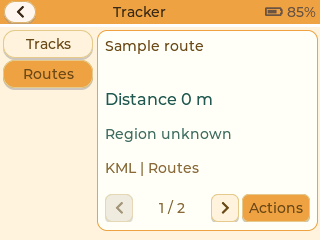
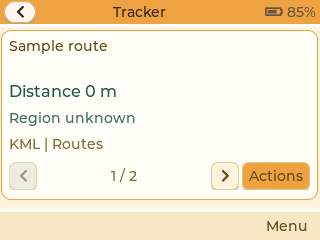
Verify topmost menu touch and preserve preview keyboard focus

diff --git a/modules/ui_shared/src/ui/components/bottom_bar.cpp b/modules/ui_shared/src/ui/components/bottom_bar.cpp
@@ -42,6 +42,12 @@ lv_obj_t* create(lv_obj_t* parent)
 void style_item(lv_obj_t* item)
 {
     plain(item);
+    for (const auto state : {LV_STATE_FOCUSED, LV_STATE_CHECKED, LV_STATE_PRESSED})
+    {
+        lv_obj_set_style_radius(item, 0, state);
+        lv_obj_set_style_border_width(item, 0, state);
+        lv_obj_set_style_shadow_width(item, 0, state);
+    }
     lv_obj_clear_flag(item, LV_OBJ_FLAG_SCROLLABLE);
     lv_obj_set_style_bg_opa(item, LV_OPA_TRANSP, LV_PART_MAIN);
     lv_obj_set_style_bg_color(item, lv_color_hex(kSelection), LV_STATE_FOCUSED);
@@ -151,6 +157,12 @@ void Menu::present()
     lv_obj_set_style_pad_row(content_, 2, LV_PART_MAIN);
     lv_obj_set_style_margin_all(content_, 0, LV_PART_MAIN);
     lv_obj_set_height(content_, LV_SIZE_CONTENT);
+    // Font and padding must be final before measuring translated item labels.
+    for (uint32_t index = 0; index < lv_obj_get_child_count(content_); ++index)
+    {
+        auto* item = lv_obj_get_child(content_, index);
+        if (lv_obj_has_flag(item, LV_OBJ_FLAG_CLICKABLE)) style_item(item);
+    }
     lv_obj_update_layout(root_);
     fit_menu(content_, std::max<lv_coord_t>(72, lv_obj_get_width(root_) - 8));
     lv_obj_set_style_max_width(content_, lv_obj_get_width(root_) - 8, LV_PART_MAIN);
@@ -168,11 +180,6 @@ void Menu::present()
     const auto x = valid(anchor_) ? anchor_area.x2 - root_area.x1 - width + 1 : lv_obj_get_width(root_) - width - 4;
     lv_obj_set_pos(content_, std::max<lv_coord_t>(4, std::min<lv_coord_t>(x, lv_obj_get_width(root_) - width - 4)),
                    std::max<lv_coord_t>(4, bottom - lv_obj_get_height(content_)));
-    for (uint32_t index = 0; index < lv_obj_get_child_count(content_); ++index)
-    {
-        auto* item = lv_obj_get_child(content_, index);
-        if (lv_obj_has_flag(item, LV_OBJ_FLAG_CLICKABLE)) style_item(item);
-    }
     prepare_keys(content_);
 }
 

diff --git a/tools/web_simulator/native_runtime.cpp b/tools/web_simulator/native_runtime.cpp
@@ -18,6 +18,7 @@ lv_group_t* menu_g = nullptr;
 lv_obj_t* main_screen = nullptr;
 static lv_display_t* display;
 static lv_indev_t* pointer_device;
+static lv_group_t* bound_input_group;
 static uint16_t pixels[480 * 240];
 static int pointer_x, pointer_y;
 static bool pointer_down;
@@ -38,16 +39,16 @@ EM_JS(void, request_menu, (), {
 
 void set_default_group(lv_group_t* group)
 {
-    if (pointer_device) lv_indev_set_group(pointer_device, group);
+    // Native keys/encoder are dispatched directly, independently of touch.
+    // A pointer indev cannot retain a keypad/encoder group in LVGL.
+    bound_input_group = group;
     lv_group_set_default(group);
 }
 
 static lv_group_t* input_group()
 {
     // Pages may clear LVGL's auto-add default after binding their input group.
-    // Read the bound device just as the firmware input drivers do.
-    auto* group = pointer_device ? lv_indev_get_group(pointer_device) : nullptr;
-    return group ? group : lv_group_get_default();
+    return bound_input_group ? bound_input_group : lv_group_get_default();
 }
 void ui_request_exit_to_menu()
 {
